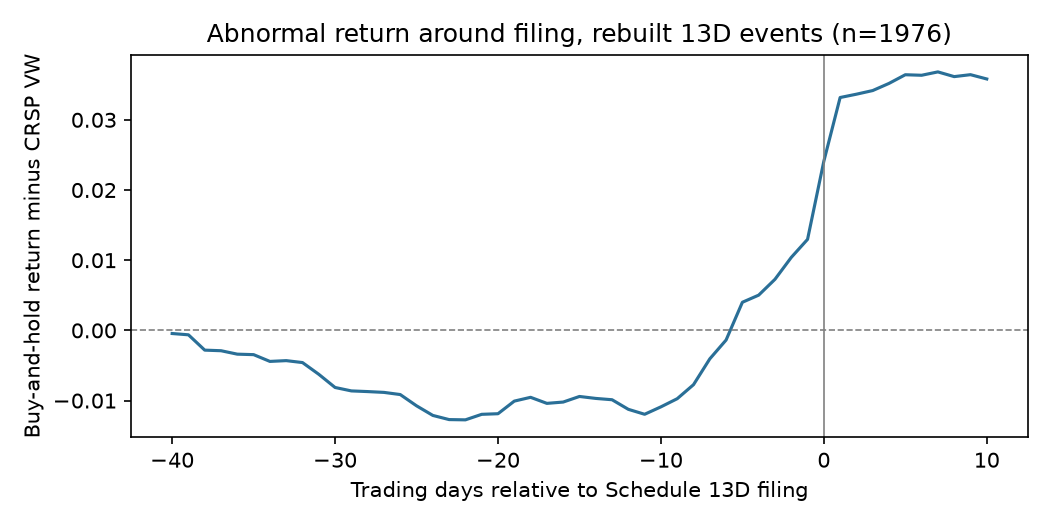
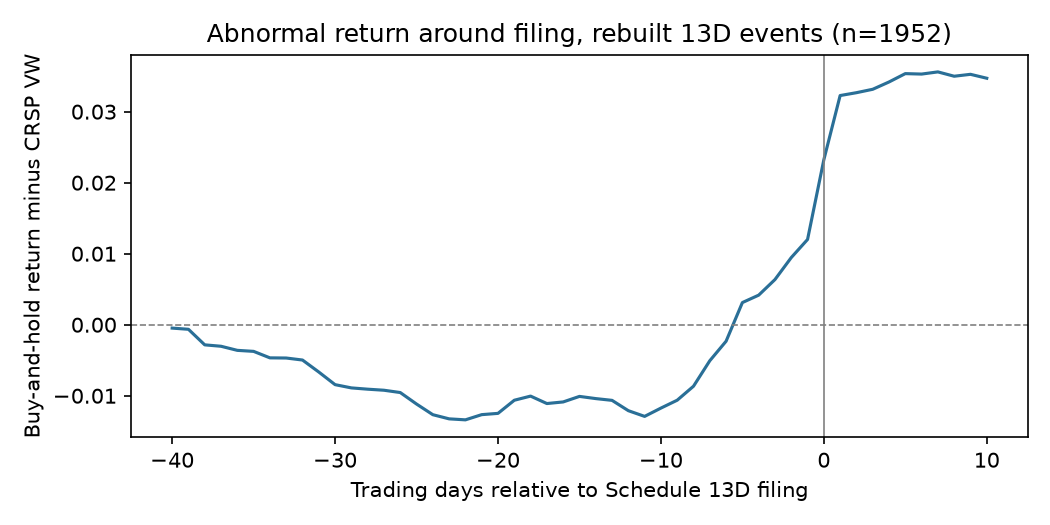
Generate local 13D labels, validation reports, and preliminary news results

diff --git a/_output/13d_extraction_eval_audit.md b/_output/13d_extraction_eval_audit.md
@@ -1,0 +1,50 @@
+# 13D extraction vs hand audit (tuning sample)
+
+Audit filings: 30; audited rows with dates: 382 (open-market, non-derivative: 349). Auditor: claude-subagent (independent of extractor; NOT human-verified).
+
+| Level | Matched | True | Extracted | Recall | Precision |
+|---|---:|---:|---:|---:|---:|
+| rows, all | 357 | 382 | 357 | 93.5% | 100.0% |
+| rows, open-market non-derivative | 335 | 349 | 351 | 96.0% | 95.4% |
+| rows, open-market, inside window | 335 | 335 | 351 | 100.0% | 95.4% |
+| trade days, all | 116 | 126 | 116 | 92.1% | 100.0% |
+| trade days, open-market | 110 | 115 | 111 | 95.7% | 99.1% |
+
+Filing-level agreement on 'has any trade': 90.0%.
+
+Matched-row price agreement (within 0.5%): 99.4% of 357
+
+## By filing
+
+| accession            | issuer_name                              | has_open_market_trades   | packet_truncated_trades_possible   |   true_rows |   pred_rows |   matched |      true_shares |      pred_shares |
+|:---------------------|:-----------------------------------------|:-------------------------|:-----------------------------------|------------:|------------:|----------:|-----------------:|-----------------:|
+| 0001019056-05-000041 | Steven Madden, Ltd. -                    | yes                      | no                                 |          25 |          25 |        25 | 440344           | 440344           |
+| 0000898432-05-000537 | Quality Systems, Inc.                    | no                       | no                                 |           0 |           0 |         0 |      0           |      0           |
+| 0001193125-06-031684 | NEWMARKET CORPORATION                    | no                       | no                                 |           1 |           0 |         0 | 437220           |      0           |
+| 0000950137-06-013881 | OWENS CORNING                            | no                       | no                                 |           0 |           0 |         0 |      0           |      0           |
+| 0001104659-07-051308 | OAKLEY, INC.                             | no                       | no                                 |           0 |           0 |         0 |      0           |      0           |
+| 0001129787-07-000092 | Exterran Holdings, Inc.                  | no                       | no                                 |           0 |           0 |         0 |      0           |      0           |
+| 0001418812-08-000035 | International Rectifier Corporation      | yes                      | no                                 |          26 |          26 |        26 | 977989           | 977989           |
+| 0001193125-08-164657 | Vital Signs, Inc.                        | no                       | no                                 |           0 |           0 |         0 |      0           |      0           |
+| 0001104659-09-003522 | PACWEST BANCORP                          | no                       | yes                                |           0 |           0 |         0 |      0           |      0           |
+| 0001462180-09-000030 | nan                                      | no                       | no                                 |           5 |           5 |         5 | 376100           | 376100           |
+| 0001341004-10-000246 | CHINA MEDIAEXPRESS HOLDINGS, INC.        | no                       | yes                                |           3 |           0 |         0 |      2.69546e+06 |      0           |
+| 0000807249-10-000238 | Micrus Endovascular Corporation          | yes                      | no                                 |          66 |          66 |        66 | 919056           | 919056           |
+| 0001193805-11-001412 | Quepasa Corporation                      | no                       | no                                 |           0 |           0 |         0 |      0           |      0           |
+| 0000902664-11-001642 | Consolidated-Tomoka Land Co.             | yes                      | no                                 |          38 |          38 |        38 | 116842           | 116842           |
+| 0001193125-12-060937 | Gevo, Inc.                               | no                       | no                                 |           0 |           0 |         0 |      0           |      0           |
+| 0000904454-12-000381 | Durata Therapeutics, Inc.                | no                       | no                                 |           0 |           0 |         0 |      0           |      0           |
+| 0001104659-13-003859 | BARNES & NOBLE, INC.                     | no                       | yes                                |           0 |           0 |         0 |      0           |      0           |
+| 0001193125-13-028288 | MAP Pharmaceuticals, Inc.                | no                       | no                                 |           0 |           0 |         0 |      0           |      0           |
+| 0000002178-14-000026 | ADAMS RESOURCES & ENERGY, INC.           | no                       | yes                                |           0 |           0 |         0 |      0           |      0           |
+| 0000921895-14-002048 | Town Sports International Holdings, Inc. | yes                      | no                                 |          84 |          84 |        84 |      2.2366e+06  |      2.2366e+06  |
+| 0000927089-15-000306 | Southern Missouri Bancorp, Inc.          | no                       | no                                 |           0 |           0 |         0 |      0           |      0           |
+| 0000950157-15-000754 | CABLE ONE, INC.                          | no                       | no                                 |           3 |           0 |         0 |      1.26995e+07 |      0           |
+| 0001193125-16-693819 | Medpace Holdings, Inc.                   | no                       | yes                                |           0 |           0 |         0 |      0           |      0           |
+| 0000941560-16-000052 | Outerwall Inc.                           | yes                      | no                                 |          11 |          11 |        11 |      1.01416e+06 |      1.01416e+06 |
+| 0001193125-17-110234 | EXAR CORPORATION                         | no                       | no                                 |           0 |           0 |         0 |      0           |      0           |
+| 0000919574-17-008738 | KINDRED HEALTHCARE, INC.                 | yes                      | no                                 |          52 |          37 |        37 |      5.63931e+06 |      4.96663e+06 |
+| 0001144204-18-006967 | Solid Biosciences Inc.                   | no                       | no                                 |           4 |           1 |         1 |      2.68944e+06 | 808990           |
+| 0000947871-18-000558 | TRICIDA, INC.                            | no                       | yes                                |           0 |           0 |         0 |      0           |      0           |
+| 0000807985-19-000015 | CenturyLink, Inc.                        | yes                      | no                                 |          64 |          64 |        64 |      5.88898e+06 |      5.88898e+06 |
+| 0000903423-19-000285 | MORPHIC HOLDING, INC.                    | no                       | yes                                |           0 |           0 |         0 |      0           |      0           |

diff --git a/_output/13d_extraction_eval_holdout.md b/_output/13d_extraction_eval_holdout.md
@@ -1,0 +1,35 @@
+# 13D extraction vs hand audit (holdout sample)
+
+Audit filings: 15; audited rows with dates: 121 (open-market, non-derivative: 104). Auditor: claude-subagent (independent of extractor; NOT human-verified).
+
+| Level | Matched | True | Extracted | Recall | Precision |
+|---|---:|---:|---:|---:|---:|
+| rows, all | 102 | 121 | 102 | 84.3% | 100.0% |
+| rows, open-market non-derivative | 102 | 104 | 102 | 98.1% | 100.0% |
+| rows, open-market, inside window | 102 | 104 | 102 | 98.1% | 100.0% |
+| trade days, all | 78 | 87 | 78 | 89.7% | 100.0% |
+| trade days, open-market | 78 | 78 | 78 | 100.0% | 100.0% |
+
+Filing-level agreement on 'has any trade': 60.0%.
+
+Matched-row price agreement (within 0.5%): 100.0% of 102
+
+## By filing
+
+| accession            | issuer_name                         | has_open_market_trades   | packet_truncated_trades_possible   |   true_rows |   pred_rows |   matched |      true_shares |      pred_shares |
+|:---------------------|:------------------------------------|:-------------------------|:-----------------------------------|------------:|------------:|----------:|-----------------:|-----------------:|
+| 0000950152-05-004672 | American Greetings Corporation      | no                       | no                                 |           0 |           0 |         0 |      0           |      0           |
+| 0001033475-06-000005 | Saga Communications, Inc. -         | yes                      | no                                 |          15 |          15 |        15 | 486930           | 486930           |
+| 0001104659-07-055445 | INSPIRE PHARMACEUTICALS, INC.       | no                       | no                                 |           1 |           0 |         0 | 140186           |      0           |
+| 0001193125-08-242286 | Life Time Fitness, Inc.             | yes                      | no                                 |          48 |          46 |        46 |      3.63241e+06 |      3.46695e+06 |
+| 0001040063-09-000003 | Kimball International, Inc.         | no                       | no                                 |           5 |           0 |         0 | 112240           |      0           |
+| 0001104659-10-021019 | Facet Biotech Corporation           | no                       | no                                 |           3 |           0 |         0 |      8.19107e+07 |      0           |
+| 0001193125-11-068847 | 99 ONLY STORES                      | no                       | no                                 |           0 |           0 |         0 |      0           |      0           |
+| 0001188112-12-000920 | Greenway Medical Technologies, Inc. | no                       | no                                 |           4 |           0 |         0 |      5.28468e+06 |      0           |
+| 0001193125-13-214474 | T-Mobile US, Inc.                   | no                       | no                                 |           1 |           0 |         0 |      5.35286e+08 |      0           |
+| 0000921895-14-000641 | Cbeyond, Inc.                       | yes                      | no                                 |          17 |          17 |        17 | 598491           | 598491           |
+| 0001104659-15-010748 | Genocea Biosciences, Inc.           | no                       | no                                 |           3 |           0 |         0 |      1.29242e+06 |      0           |
+| 0001193125-16-525027 | MIDDLEBURG FINANCIAL CORPORATION    | yes                      | no                                 |           6 |           6 |         6 |   6948           |   6948           |
+| 0000919574-17-003011 | DigitalGlobe, Inc.                  | yes                      | no                                 |           2 |           2 |         2 |   4000           |   4000           |
+| 0000899140-18-000607 | Horizon Global Corporation          | yes                      | no                                 |          16 |          16 |        16 | 812163           | 812163           |
+| 0000950142-19-000821 | Hemisphere Media Group, Inc.        | no                       | no                                 |           0 |           0 |         0 |      0           |      0           |

diff --git a/_output/figure_04c_preview.md b/_output/figure_04c_preview.md
@@ -1,0 +1,70 @@
+# News-event regression
+
+PRELIMINARY: raw earnings dates; no control completeness screen
+
+```json
+{
+  "mode": "PRELIMINARY: raw earnings dates; no control completeness screen",
+  "observations": 1127042,
+  "stocks": 678,
+  "date_range": [
+    "2005-01-03",
+    "2015-12-23"
+  ],
+  "earnings_window_rows_excluded_full_news_history": 99578,
+  "iti": "Original posted ITI(impatient); all three 13D scores required nonmissing",
+  "earnings_input": "/Users/aarbitman/Desktop/Data Pipelines for Quantitative Research/p02_bogousslavsky_fos_muravyev_2024/_data/derived/bfkr/earnings_unadjusted.parquet",
+  "control_input": null,
+  "specification": "Stock fixed effects; stock/date clustered SE; intervals +/-2 SE",
+  "limitations": [
+    "Default sample starts 2005; screenshot starts 2000",
+    "Ticker links with ambiguity are excluded",
+    "Preview does not apply the paper's complete control/universe screens"
+  ]
+}
+```
+
+```text
+                          PanelOLS Estimation Summary                           
+================================================================================
+Dep. Variable:         ITI(impatient)   R-squared:                        0.0047
+Estimator:                   PanelOLS   R-squared (Between):             -0.2223
+No. Observations:             1127042   R-squared (Within):               0.0047
+Date:                Sun, Nov 08 2026   R-squared (Overall):             -0.0007
+Time:                        21:42:16   Log-likelihood                 6.784e+05
+Cov. Estimator:             Clustered                                           
+                                        F-statistic:                      483.79
+Entities:                         678   P-value                           0.0000
+Avg Obs:                       1662.3   Distribution:              F(11,1126353)
+Min Obs:                       1.0000                                           
+Max Obs:                       2552.0   F-statistic (robust):             62.815
+                                        P-value                           0.0000
+Time periods:                    2761   Distribution:              F(11,1126353)
+Avg Obs:                       408.20                                           
+Min Obs:                       262.00                                           
+Max Obs:                       461.00                                           
+                                                                                
+                             Parameter Estimates                              
+==============================================================================
+            Parameter  Std. Err.     T-stat    P-value    Lower CI    Upper CI
+------------------------------------------------------------------------------
+const          0.4102     0.0016     249.64     0.0000      0.4070      0.4135
+news-5        -0.0012     0.0005    -2.5579     0.0105     -0.0022     -0.0003
+news-4         0.0016     0.0005     3.2873     0.0010      0.0006      0.0025
+news-3         0.0023     0.0005     5.1335     0.0000      0.0014      0.0032
+news-2         0.0025     0.0005     5.3614     0.0000      0.0016      0.0035
+news-1         0.0071     0.0005     14.413     0.0000      0.0061      0.0081
+news0          0.0115     0.0005     21.946     0.0000      0.0105      0.0126
+news1          0.0081     0.0005     17.462     0.0000      0.0072      0.0090
+news2          0.0036     0.0004     8.2428     0.0000      0.0027      0.0044
+news3          0.0019     0.0004     4.2944     0.0000      0.0010      0.0028
+news4          0.0010     0.0004     2.2869     0.0222      0.0001      0.0018
+news5         -0.0004     0.0004    -0.9105     0.3626     -0.0012      0.0004
+==============================================================================
+
+F-test for Poolability: 16.639
+P-value: 0.0000
+Distribution: F(677,1126353)
+
+Included effects: Entity
+```

diff --git a/_output/data_acquisition_status.md b/_output/data_acquisition_status.md
@@ -1,6 +1,6 @@
 # Data acquisition status
 
-Snapshot: 2026-11-08T16:20:02.916640+00:00
+Snapshot: 2026-11-09T03:40:46.488767+00:00
 
 Completed files only; a readable Parquet footer and matching manifest row count were checked.
 
@@ -8,24 +8,25 @@ Scope: through 2019, including 2004 warm-up history. Wider combined source extra
 
 | Source | Complete files | Years complete | Rows | Size (GiB) | Completed years |
 |---|---:|---:|---:|---:|---|
-| compustat_earnings | 1 | — | 543,630 | 0.006 |  |
+| compustat_earnings | 1 | — | 505,901 | 0.006 |  |
 | crsp_compustat_links | 1 | — | 92,711 | 0.001 |  |
-| crsp_daily | 16 | 16/16 | 28,295,929 | 0.739 | 2004, 2005, 2006, 2007, 2008, 2009, 2010, 2011, 2012, 2013, 2014, 2015, 2016, 2017, 2018, 2019 |
-| crsp_delistings | 1 | — | 7,448 | 0.000 |  |
-| crsp_market | 1 | — | 4,027 | 0.000 |  |
-| crsp_names | 1 | — | 42,714 | 0.001 |  |
+| crsp_daily | 16 | 16/16 | 28,295,929 | 0.738 | 2004, 2005, 2006, 2007, 2008, 2009, 2010, 2011, 2012, 2013, 2014, 2015, 2016, 2017, 2018, 2019 |
+| crsp_delistings | 1 | — | 6,998 | 0.000 |  |
+| crsp_market | 1 | — | 3,775 | 0.000 |  |
+| crsp_names | 1 | — | 34,711 | 0.001 |  |
 | crsp_taq_links | 16 | 16/16 | 19,643,596 | 0.005 | 2004, 2005, 2006, 2007, 2008, 2009, 2010, 2011, 2012, 2013, 2014, 2015, 2016, 2017, 2018, 2019 |
-| insider_transactions | 16 | 16/16 | 7,615,517 | 0.110 | 2004, 2005, 2006, 2007, 2008, 2009, 2010, 2011, 2012, 2013, 2014, 2015, 2016, 2017, 2018, 2019 |
-| intraday_indicators | 16 | 16/16 | 31,622,735 | 5.126 | 2004, 2005, 2006, 2007, 2008, 2009, 2010, 2011, 2012, 2013, 2014, 2015, 2016, 2017, 2018, 2019 |
-| markit_lending | 14 | 14/14 | 36,553,471 | 0.822 | 2006, 2007, 2008, 2009, 2010, 2011, 2012, 2013, 2014, 2015, 2016, 2017, 2018, 2019 |
-| sdc_ma | 1 | — | 769,226 | 0.032 |  |
+| insider_transactions | 16 | 16/16 | 7,615,513 | 0.110 | 2004, 2005, 2006, 2007, 2008, 2009, 2010, 2011, 2012, 2013, 2014, 2015, 2016, 2017, 2018, 2019 |
+| intraday_indicators | 16 | 16/16 | 31,622,735 | 5.175 | 2004, 2005, 2006, 2007, 2008, 2009, 2010, 2011, 2012, 2013, 2014, 2015, 2016, 2017, 2018, 2019 |
+| markit_lending | 14 | 14/14 | 36,553,471 | 0.793 | 2006, 2007, 2008, 2009, 2010, 2011, 2012, 2013, 2014, 2015, 2016, 2017, 2018, 2019 |
+| sdc_ma | 1 | — | 733,927 | 0.031 |  |
 | sec_13d_filings | 15 | 15/15 | 27,622 | 0.210 | 2005, 2006, 2007, 2008, 2009, 2010, 2011, 2012, 2013, 2014, 2015, 2016, 2017, 2018, 2019 |
 | sec_13d_index | 15 | 15/15 | 189,305 | 0.005 | 2005, 2006, 2007, 2008, 2009, 2010, 2011, 2012, 2013, 2014, 2015, 2016, 2017, 2018, 2019 |
-| sec_cusip_links | 1 | — | 89,957 | 0.003 |  |
+| sec_cusip_links | 1 | — | 89,934 | 0.003 |  |
 | iti_original | 1162 | 16/16 | 10,421,219 | 0.448 | 2004, 2005, 2006, 2007, 2008, 2009, 2010, 2011, 2012, 2013, 2014, 2015, 2016, 2017, 2018, 2019 |
 | iti_extended | 60 | 16/16 | 10,916,428 | 0.443 | 2004, 2005, 2006, 2007, 2008, 2009, 2010, 2011, 2012, 2013, 2014, 2015, 2016, 2017, 2018, 2019 |
 | pin_legacy_daily | 198 | 9/9 | 2,285,733 | 0.140 | 2004, 2005, 2006, 2007, 2008, 2009, 2010, 2011, 2012 |
 | FF4 daily factors | 1 | 16/16 | 4,027 | 0.000 | 2004–2019 |
+| BFKR linked news | 1 | — | 1,328,872 | 0.002 | 2004, 2005, 2006, 2007, 2008, 2009, 2010, 2011, 2012, 2013, 2014, 2015 |
 
 Incomplete files (not usable yet): none
 
@@ -35,6 +36,8 @@ Stopped later-year partial files (not active downloads): none
 
 Failed extracts: none
 
-Remaining gaps: cleaned/audited 13D labels; exact BFKR news events; BCL CPIE; supplemental intraday inputs; original training artifacts or retrained models.
+BFKR source CSV: present (37.2 MiB). Figure 4(c) still needs adjusted earnings dates and the complete control panel.
+
+Remaining gaps: cleaned/audited 13D labels; BCL CPIE; supplemental intraday inputs; original training artifacts or retrained models.
 
 See docs_src/site/project_overview/data_acquisition.md for scope and definitions.

diff --git a/_output/bfkr_preparation.md b/_output/bfkr_preparation.md
@@ -1,0 +1,70 @@
+# BFKR news preparation
+
+```json
+{
+  "source": "_data/public/InformationTradingVolatility_DataFile.csv",
[1 lines of base64/hex data omitted]
+  "source_rows": 1952175,
+  "source_tickers": 896,
+  "date_range": [
+    "2000-01-03",
+    "2015-12-31"
+  ],
+  "link_counts": {
+    "linked": 1328872,
+    "unmatched": 623303
+  },
+  "linked_rows_by_year": {
+    "2004": 65237,
+    "2005": 118733,
+    "2006": 114475,
+    "2007": 114121,
+    "2008": 116156,
+    "2009": 115883,
+    "2010": 117196,
+    "2011": 116593,
+    "2012": 114583,
+    "2013": 114232,
+    "2014": 112175,
+    "2015": 109488
+  },
+  "earnings_rows": 305410,
+  "earnings_timing": "Raw Compustat rdq; no after-hours volume adjustment"
+}
+```
+
+Link outcomes by year:
+
+```
+year  link_status
+2000  unmatched      119922
+2001  unmatched      119827
+2002  unmatched      122791
+2003  unmatched      123742
+2004  linked          65237
+      unmatched       57817
+2005  linked         118733
+      unmatched        4536
+2006  linked         114475
+      unmatched        5086
+2007  linked         114121
+      unmatched        5235
+2008  linked         116156
+      unmatched        6659
+2009  linked         115883
+      unmatched        6305
+2010  linked         117196
+      unmatched        5039
+2011  linked         116593
+      unmatched        5795
+2012  linked         114583
+      unmatched        7582
+2013  linked         114232
+      unmatched        9080
+2014  linked         112175
+      unmatched       11339
+2015  linked         109488
+      unmatched       12548
+```
+
+Unmatched, ambiguous and duplicate stock-days are retained only in news_link_audit.parquet. Dates outside the local CRSP name history can be unmatched.

diff --git a/_output/build_summary.md b/_output/build_summary.md
@@ -1,0 +1,23 @@
+# Implemented research build
+
+This build is not yet a replication of all 13 screenshot targets.
+
+| Output | File |
+|---|---|
+| Local source inventory | data_acquisition_status.md |
+| 13D label validation | 13d_label_validation.md |
+| 13D filing-return diagnostic | 13d_filing_car.png |
+| Extractor tuning evaluation | 13d_extraction_eval_audit.md |
+| Extractor previously used holdout evaluation | 13d_extraction_eval_holdout.md |
+| News preparation / identifier audit | bfkr_preparation.md |
+| Preliminary Figure 4(c) | figure_04c_preview.png |
+
+News regression: 1,127,042 observations, 678 stocks, 2005-01-03 to 2015-12-23.
+
+The news chart uses unadjusted earnings dates and incomplete sample screens. It is not the final Figure 4(c). 13D transcriptions still need independent verification.
+
+## Remaining screenshot work
+
+Tables 1–5 and 9–11, Figures 1–3, Figure 4(a–b), and Figure IA.5 do not yet have completed end-to-end builders. Figure 4(c) has a preliminary implementation only. Complete market features, fitted models/out-of-fold predictions, final events and pricing panels remain to implement. BCL data for Table 9 remain unavailable.
+
+See README.md for dataset coverage and docs_src/site/project_overview/build.md for the build/data handoff contract.

diff --git a/_output/13d_label_validation.md b/_output/13d_label_validation.md
@@ -6,8 +6,8 @@ Filings are original SC 13D submissions 2005-2019 from WRDS. 'Paper period' mean
 
 | First failed screen | Filings |
 |---|---:|
-| linked | 11,188 |
-| common_stock | 4,160 |
+| linked | 11,204 |
+| common_stock | 4,144 |
 | price | 3,911 |
 | mcap | 1,272 |
 | no_derivatives | 58 |
@@ -61,4 +61,4 @@ Mean ITI on trade days 0.368 vs non-trade days 0.303; within-filing slope of itr
 
 ## Abnormal return around filing
 
-Events: 1976. Cumulative excess return from day -40 to day -1: 1.30% (paper Fig. IA.1: about 3%); days 0 to +1: 2.02% (paper: about 2%). Chart: `_output/13d_filing_car.png`.
+Events: 1952. Cumulative excess return from day -40 to day -1: 1.20% (paper Fig. IA.1: about 3%); days 0 to +1: 2.03% (paper: about 2%). Chart: `_output/13d_filing_car.png`.
